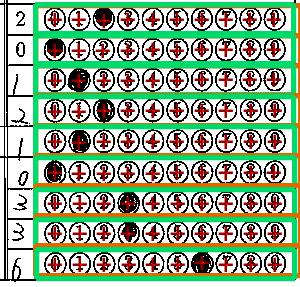
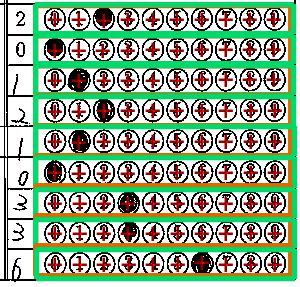
[Improve] Define class on conf.rb

Changed region(s): [[0.9, 0.0, 1.0, 0.9756]]

diff --git a/ruby_marks/conf.rb b/ruby_marks/conf.rb
@@ -1,54 +1,58 @@
+class Conf
+  def OMRsettings(hoge)
 
-@recognizer = RubyMarks::Recognizer.new
-# Configuring the document aspects
-@recognizer.configure do |config|
-  config.threshold_level = 50
-  config.edge_level = 3
-  config.default_expected_lines = 1
-  config.default_block_width_tolerance = 25
-  config.default_block_height_tolerance = 25
-  config.default_mark_height = 23
-  config.default_mark_width = 23
-  config.default_distance_between_marks = 25
-  config.default_marks_options = %w{0 1 2 3 4 5 6 7 8 9}
-  startx = 35
-  endx = 290
-  starty = 5
-  betweeny = 30
+    @recognizer = hoge
+    # Configuring the document aspects
+    @recognizer.configure do |config|
+      config.threshold_level = 50
+      config.edge_level = 3
+      config.default_expected_lines = 1
+      config.default_block_width_tolerance = 25
+      config.default_block_height_tolerance = 25
+      config.default_mark_height = 23
+      config.default_mark_width = 23
+      config.default_distance_between_marks = 23
+      config.default_marks_options = %w{0 1 2 3 4 5 6 7 8 9}
+      startx = 35
+      endx = 290
+      starty = 5
+      betweeny = 30
 
-  config.define_group :first  do |group|
-      group.expected_coordinates = {x1: startx , y1: starty, x2: endx, y2: starty + betweeny * 1}
-  end
+      config.define_group :first  do |group|
+          group.expected_coordinates = {x1: startx , y1: starty, x2: endx, y2: starty + betweeny * 1}
+      end
 
-  config.define_group :second  do |group|
-      group.expected_coordinates = {x1: startx , y1: starty + betweeny * 1, x2: endx, y2: starty + betweeny * 2}
-  end
+      config.define_group :second  do |group|
+          group.expected_coordinates = {x1: startx , y1: starty + betweeny * 1, x2: endx, y2: starty + betweeny * 2}
+      end
 
-  config.define_group :third  do |group|
-      group.expected_coordinates = {x1: startx , y1: starty + betweeny * 2, x2: endx, y2: starty + betweeny * 3}
-  end
+      config.define_group :third  do |group|
+          group.expected_coordinates = {x1: startx , y1: starty + betweeny * 2, x2: endx, y2: starty + betweeny * 3}
+      end
 
-  config.define_group :forth  do |group|
-      group.expected_coordinates = {x1: startx , y1: starty + betweeny * 3, x2: endx, y2: starty + betweeny * 4}
-  end
+      config.define_group :forth  do |group|
+          group.expected_coordinates = {x1: startx , y1: starty + betweeny * 3, x2: endx, y2: starty + betweeny * 4}
+      end
 
-  config.define_group :fifth  do |group|
-      group.expected_coordinates = {x1: startx , y1: starty + betweeny * 4, x2: endx, y2: starty + betweeny * 5}
-  end
+      config.define_group :fifth  do |group|
+          group.expected_coordinates = {x1: startx , y1: starty + betweeny * 4, x2: endx, y2: starty + betweeny * 5}
+      end
 
-  config.define_group :sixth  do |group|
-      group.expected_coordinates = {x1: startx , y1: starty + betweeny * 5, x2: endx, y2: starty + betweeny * 6}
-  end
+      config.define_group :sixth  do |group|
+          group.expected_coordinates = {x1: startx , y1: starty + betweeny * 5, x2: endx, y2: starty + betweeny * 6}
+      end
 
-  config.define_group :seventh  do |group|
-      group.expected_coordinates = {x1: startx , y1: starty + betweeny * 6, x2: endx, y2: starty + betweeny * 7}
-  end
+      config.define_group :seventh  do |group|
+          group.expected_coordinates = {x1: startx , y1: starty + betweeny * 6, x2: endx, y2: starty + betweeny * 7}
+      end
 
-  config.define_group :eighth  do |group|
-      group.expected_coordinates = {x1: startx , y1: starty + betweeny * 7, x2: endx, y2: starty + betweeny * 8}
-  end
+      config.define_group :eighth  do |group|
+          group.expected_coordinates = {x1: startx , y1: starty + betweeny * 7, x2: endx, y2: starty + betweeny * 8}
+      end
 
-  config.define_group :nineth  do |group|
-      group.expected_coordinates = {x1: startx , y1: starty + betweeny * 8, x2: endx, y2: starty + betweeny * 9}
+      config.define_group :nineth  do |group|
+          group.expected_coordinates = {x1: startx , y1: starty + betweeny * 8, x2: endx, y2: starty + betweeny * 9}
+      end
+    end
   end
 end

diff --git a/ruby_marks/read_jpg.rb b/ruby_marks/read_jpg.rb
@@ -3,14 +3,19 @@ require 'rubygems'
 require 'bundler/setup'
 require 'ruby_marks'
 require 'cut_jpg'
-require 'conf'
 require 'write_csv'
 require 'com2pdf'
+require 'conf'
 
 results = []
 filename = []
 n = 0
 m = 0
+
+@recognizer = RubyMarks::Recognizer.new
+
+hoge = Conf.new
+hoge.OMRsettings(@recognizer)
 
 #1 CUT
 imageFiles_src = Dir::glob("./00 src/*.jpg")
